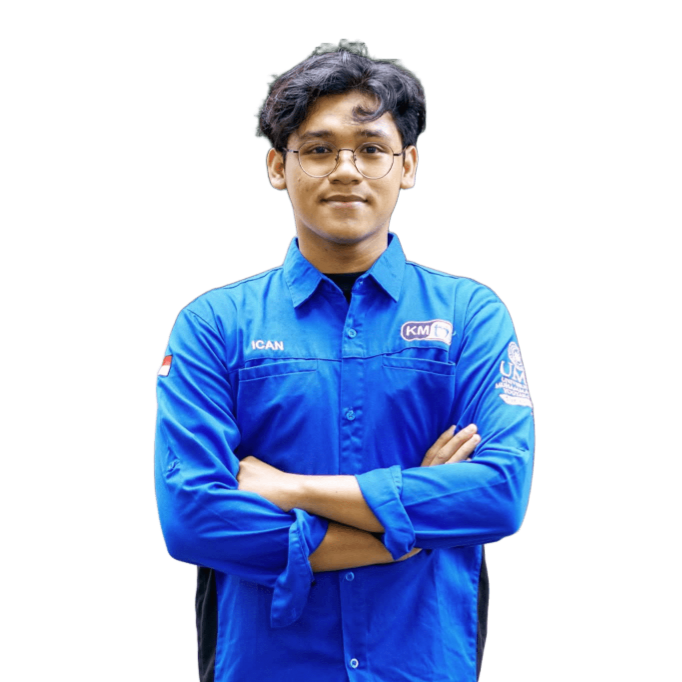
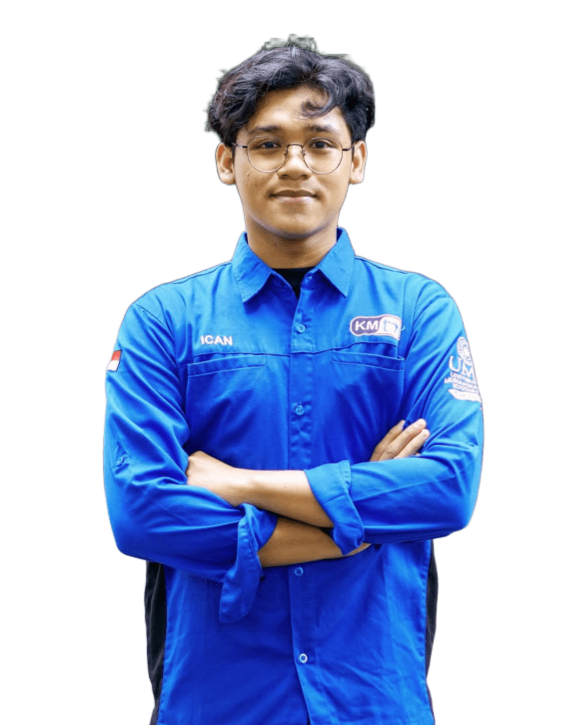
style(hero): unify profile picture shape to rounded rectangle and improve mobile spacing hierarchy

diff --git a/src/App.jsx b/src/App.jsx
@@ -523,7 +523,7 @@ export default function App() {
         {/* 2. Hero Section (Split Two-Column Design) */}
         <section
           id="about"
-          className="pt-32 pb-20 sm:pt-40 sm:pb-24 md:pt-48 md:pb-28 px-4 sm:px-6 max-w-6xl mx-auto"
+          className="pt-32 pb-28 sm:pt-40 sm:pb-32 lg:pt-48 lg:pb-36 px-4 sm:px-6 max-w-6xl mx-auto"
         >
           <div className="grid grid-cols-1 lg:grid-cols-2 gap-12 lg:gap-8 items-center max-w-6xl mx-auto">
             {/* Left Column (Text Content) */}
@@ -572,7 +572,7 @@ export default function App() {
 
             {/* Right Column (Profile Picture) */}
             <div className="relative flex justify-center lg:justify-end order-last">
-              <div className="relative w-72 h-72 md:w-80 md:h-80 lg:w-[400px] lg:h-[400px] rounded-full lg:rounded-2xl overflow-hidden bg-neutral-100 dark:bg-neutral-800 shadow-xl border border-neutral-200 dark:border-neutral-800">
+              <div className="relative w-full max-w-[320px] md:max-w-[400px] aspect-[4/5] rounded-2xl overflow-hidden bg-neutral-100 dark:bg-neutral-800 shadow-xl border border-neutral-200 dark:border-neutral-800 mx-auto lg:mx-0 lg:ml-auto">
                 <img
                   src="/profile-picture.png"
                   alt="Iqbal Dwi Fathonah"
